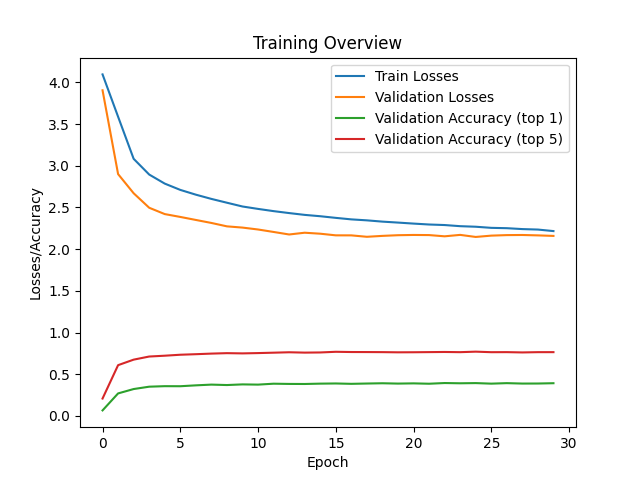
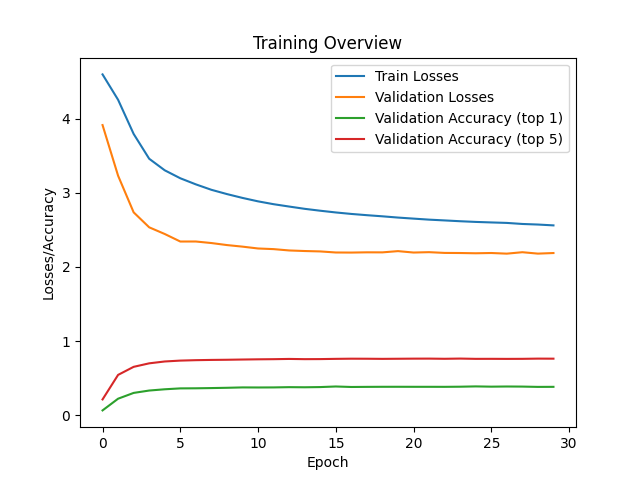
doc: updated README pictures for training graph

diff --git a/README.md b/README.md
@@ -12,28 +12,31 @@ For the .pt model, please checkout this url on [Google Drive](https://drive.goog
 
 NN training graph:
 
-![Training Graph](./assets/training_overview.png)
+|            Training without value network             |            Training with value network            |
+| :---------------------------------------------------: | :-----------------------------------------------: |
+| ![Training Graph](./assets/training_overview_pol.png) | ![Training Graph](./assets/training_overview.png) |
 
 Sample training log:
 
 ```log
-2026-01-26 08:31:06 | INFO | training | Starting training
-2026-01-26 08:31:06 | INFO | training | Board size = 9
-2026-01-26 08:31:06 | INFO | training | Batch size = 128
-2026-01-26 08:31:06 | INFO | training | Total epoch = 30
-2026-01-26 08:31:06 | INFO | training | train_dataset length: 89892
-2026-01-26 08:31:06 | INFO | training | val_dataset length: 11448
-2026-01-26 08:31:06 | INFO | training | test_dataset length: 10734
-2026-01-26 08:31:07 | ERROR | training | Checkpoint file does not exist.
-2026-01-26 08:31:30 | INFO | training | Epoch 0 finished | train_loss = 4.0949 | val_loss = 3.9046 | val_acc1 = 0.0669 | val_acc5 = 0.2091
-2026-01-26 08:33:31 | INFO | training | Epoch 5 finished | train_loss = 2.7103 | val_loss = 2.3862 | val_acc1 = 0.3567 | val_acc5 = 0.7342
-2026-01-26 08:35:33 | INFO | training | Epoch 10 finished | train_loss = 2.4824 | val_loss = 2.2356 | val_acc1 = 0.3760 | val_acc5 = 0.7540
-2026-01-26 08:37:41 | INFO | training | Epoch 15 finished | train_loss = 2.3750 | val_loss = 2.1655 | val_acc1 = 0.3898 | val_acc5 = 0.7695
-2026-01-26 08:39:48 | INFO | training | Epoch 20 finished | train_loss = 2.3064 | val_loss = 2.1701 | val_acc1 = 0.3909 | val_acc5 = 0.7640
-2026-01-26 08:41:50 | INFO | training | Epoch 25 finished | train_loss = 2.2553 | val_loss = 2.1621 | val_acc1 = 0.3877 | val_acc5 = 0.7648
-2026-01-26 08:43:32 | INFO | training | TEST | loss = 2.1182 | acc1 = 0.3959 | acc5 = 0.7773
-2026-01-26 08:43:32 | INFO | training | Total training time: 745.6234 seconds
-2026-01-26 08:44:07 | INFO | training | Training end
+2026-01-26 16:47:57 | INFO | training | Starting training
+2026-01-26 16:47:57 | INFO | training | Board size = 9
+2026-01-26 16:47:57 | INFO | training | Batch size = 128
+2026-01-26 16:47:57 | INFO | training | Total epoch = 30
+2026-01-26 16:47:57 | INFO | training | USE_VALUE = True
+2026-01-26 16:47:57 | INFO | training | train_dataset length: 89892
+2026-01-26 16:47:57 | INFO | training | val_dataset length: 11448
+2026-01-26 16:47:57 | INFO | training | test_dataset length: 10734
+2026-01-26 16:47:57 | WARNING | training | Checkpoint file does not exist. Starting with no checkpoint file.
+2026-01-26 16:48:22 | INFO | training | Epoch 0 finished | train_loss = 4.5951 | val_loss = 3.9123 | val_acc1 = 0.0670 | val_acc5 = 0.2148
+2026-01-26 16:50:32 | INFO | training | Epoch 5 finished | train_loss = 3.1954 | val_loss = 2.3428 | val_acc1 = 0.3636 | val_acc5 = 0.7381
+2026-01-26 16:52:40 | INFO | training | Epoch 10 finished | train_loss = 2.8843 | val_loss = 2.2491 | val_acc1 = 0.3759 | val_acc5 = 0.7554
+2026-01-26 16:54:46 | INFO | training | Epoch 15 finished | train_loss = 2.7346 | val_loss = 2.1951 | val_acc1 = 0.3892 | val_acc5 = 0.7616
+2026-01-26 16:56:57 | INFO | training | Epoch 20 finished | train_loss = 2.6515 | val_loss = 2.1944 | val_acc1 = 0.3849 | val_acc5 = 0.7644
+2026-01-26 16:59:10 | INFO | training | Epoch 25 finished | train_loss = 2.6001 | val_loss = 2.1881 | val_acc1 = 0.3870 | val_acc5 = 0.7620
+2026-01-26 17:01:04 | INFO | training | TEST | loss = 2.1382 | acc1 = 0.4037 | acc5 = 0.7723
+2026-01-26 17:01:04 | INFO | training | Total training time: 786.9798 seconds
+2026-01-26 17:01:37 | INFO | training | Training end
 ```
 
 ## Timeline
